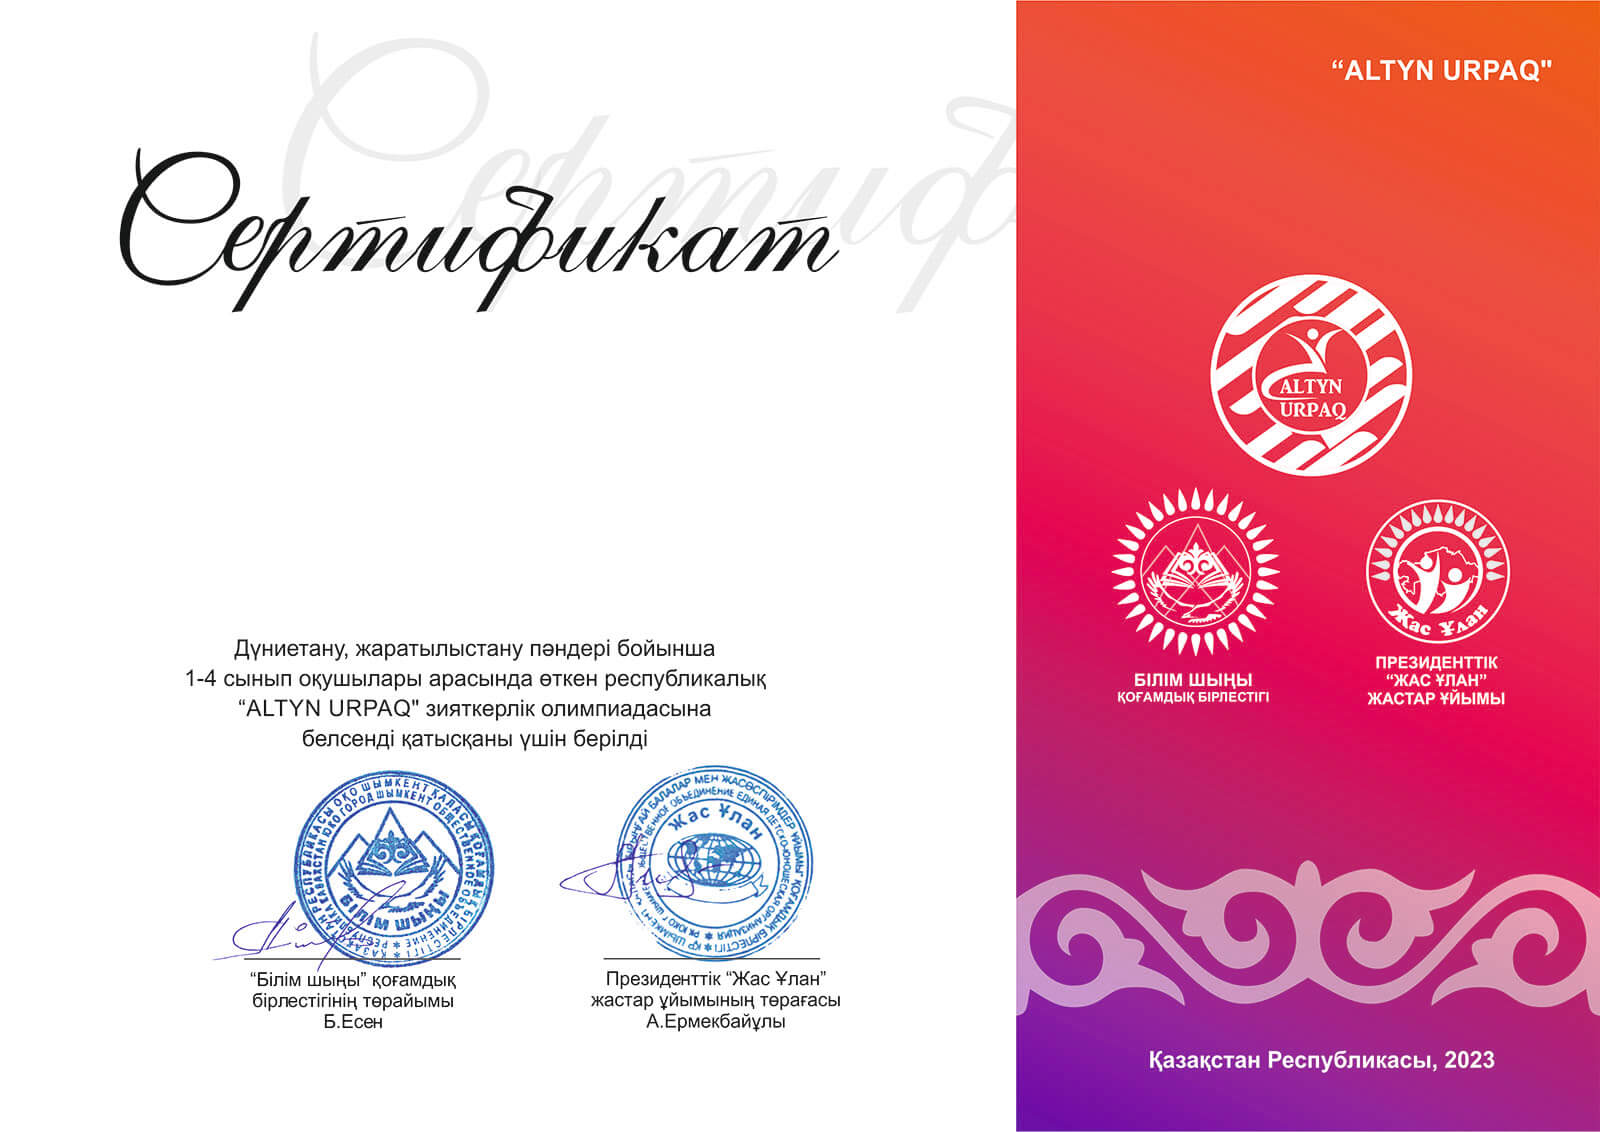
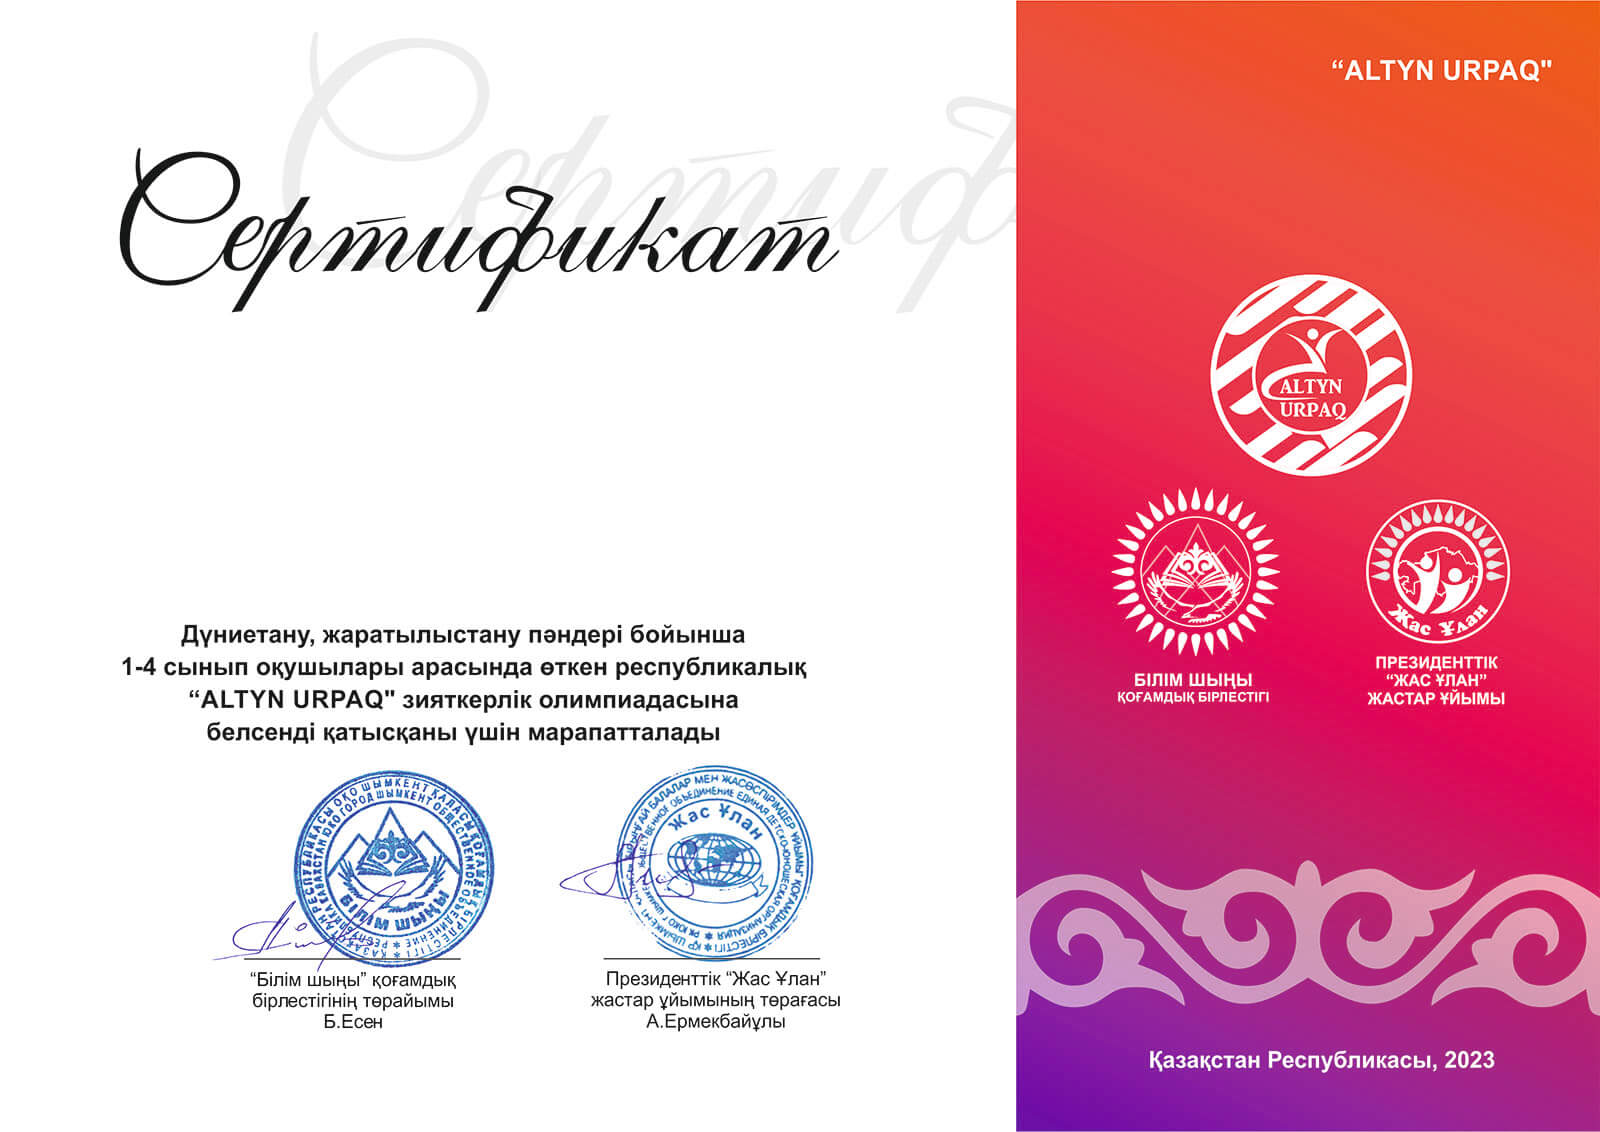
fixes

Changed region(s): [[0.0938, 0.5565, 0.5, 0.6802]]

diff --git a/frontend/views/olympiad/altyn-urpaq-2023/_diploma.php b/frontend/views/olympiad/altyn-urpaq-2023/_diploma.php
@@ -19,7 +19,10 @@ if ($testAssignment->grade >= 1 && $testAssignment->grade <= 4) {
 ?>
 <div>
     <div class="cert-page" style="background-image: url('./img/altyn-urpaq-2023/<?= $imgFile ?>'); background-size: cover; background-repeat: no-repeat; font-family: 'Arial'; height: 800px">
-        <div style="padding-left: 210px; padding-top: 160px; text-align: center; width: 600px; height: 150px; font-size: 18px">
+        <div style="font-size: 22px; padding-left: 500px; padding-top: 60px; text-transform: uppercase; color: #fff; text-align: center">
+            <b><?= $place ?></b>
+        </div>
+        <div style="padding-left: 210px; padding-top: 90px; text-align: center; width: 600px; height: 150px; font-size: 18px">
             <div style="padding-top: 10px; font-family: 'Arial'; height: 100px;">
                 <div style="font-size: 14px; font-weight: 500">
                     <?php
@@ -42,7 +45,7 @@ if ($testAssignment->grade >= 1 && $testAssignment->grade <= 4) {
                 <b><?= $testAssignment->surname . ' ' . $testAssignment->name . ' ' . $testAssignment->patronymic ?></b>
             </div>
         </div>
-        <div class="border" style="display: flex; padding-left: 70px; padding-top: 290px; color: #fff9f6">
+        <div class="border" style="display: flex; padding-left: 70px; padding-top: 270px; color: #fff9f6">
             <div id="cert-qrcode"><?= '<img src="' . $qrCode->writeDataUri() . '">' ?></div>
             <div style="color: #fff; padding-top: -45px; font-size: 14px; padding-left: 90px; font-weight: bold">
                 <div id="cert-number">Тіркеу №<?= $testAssignment->id ?></div>
